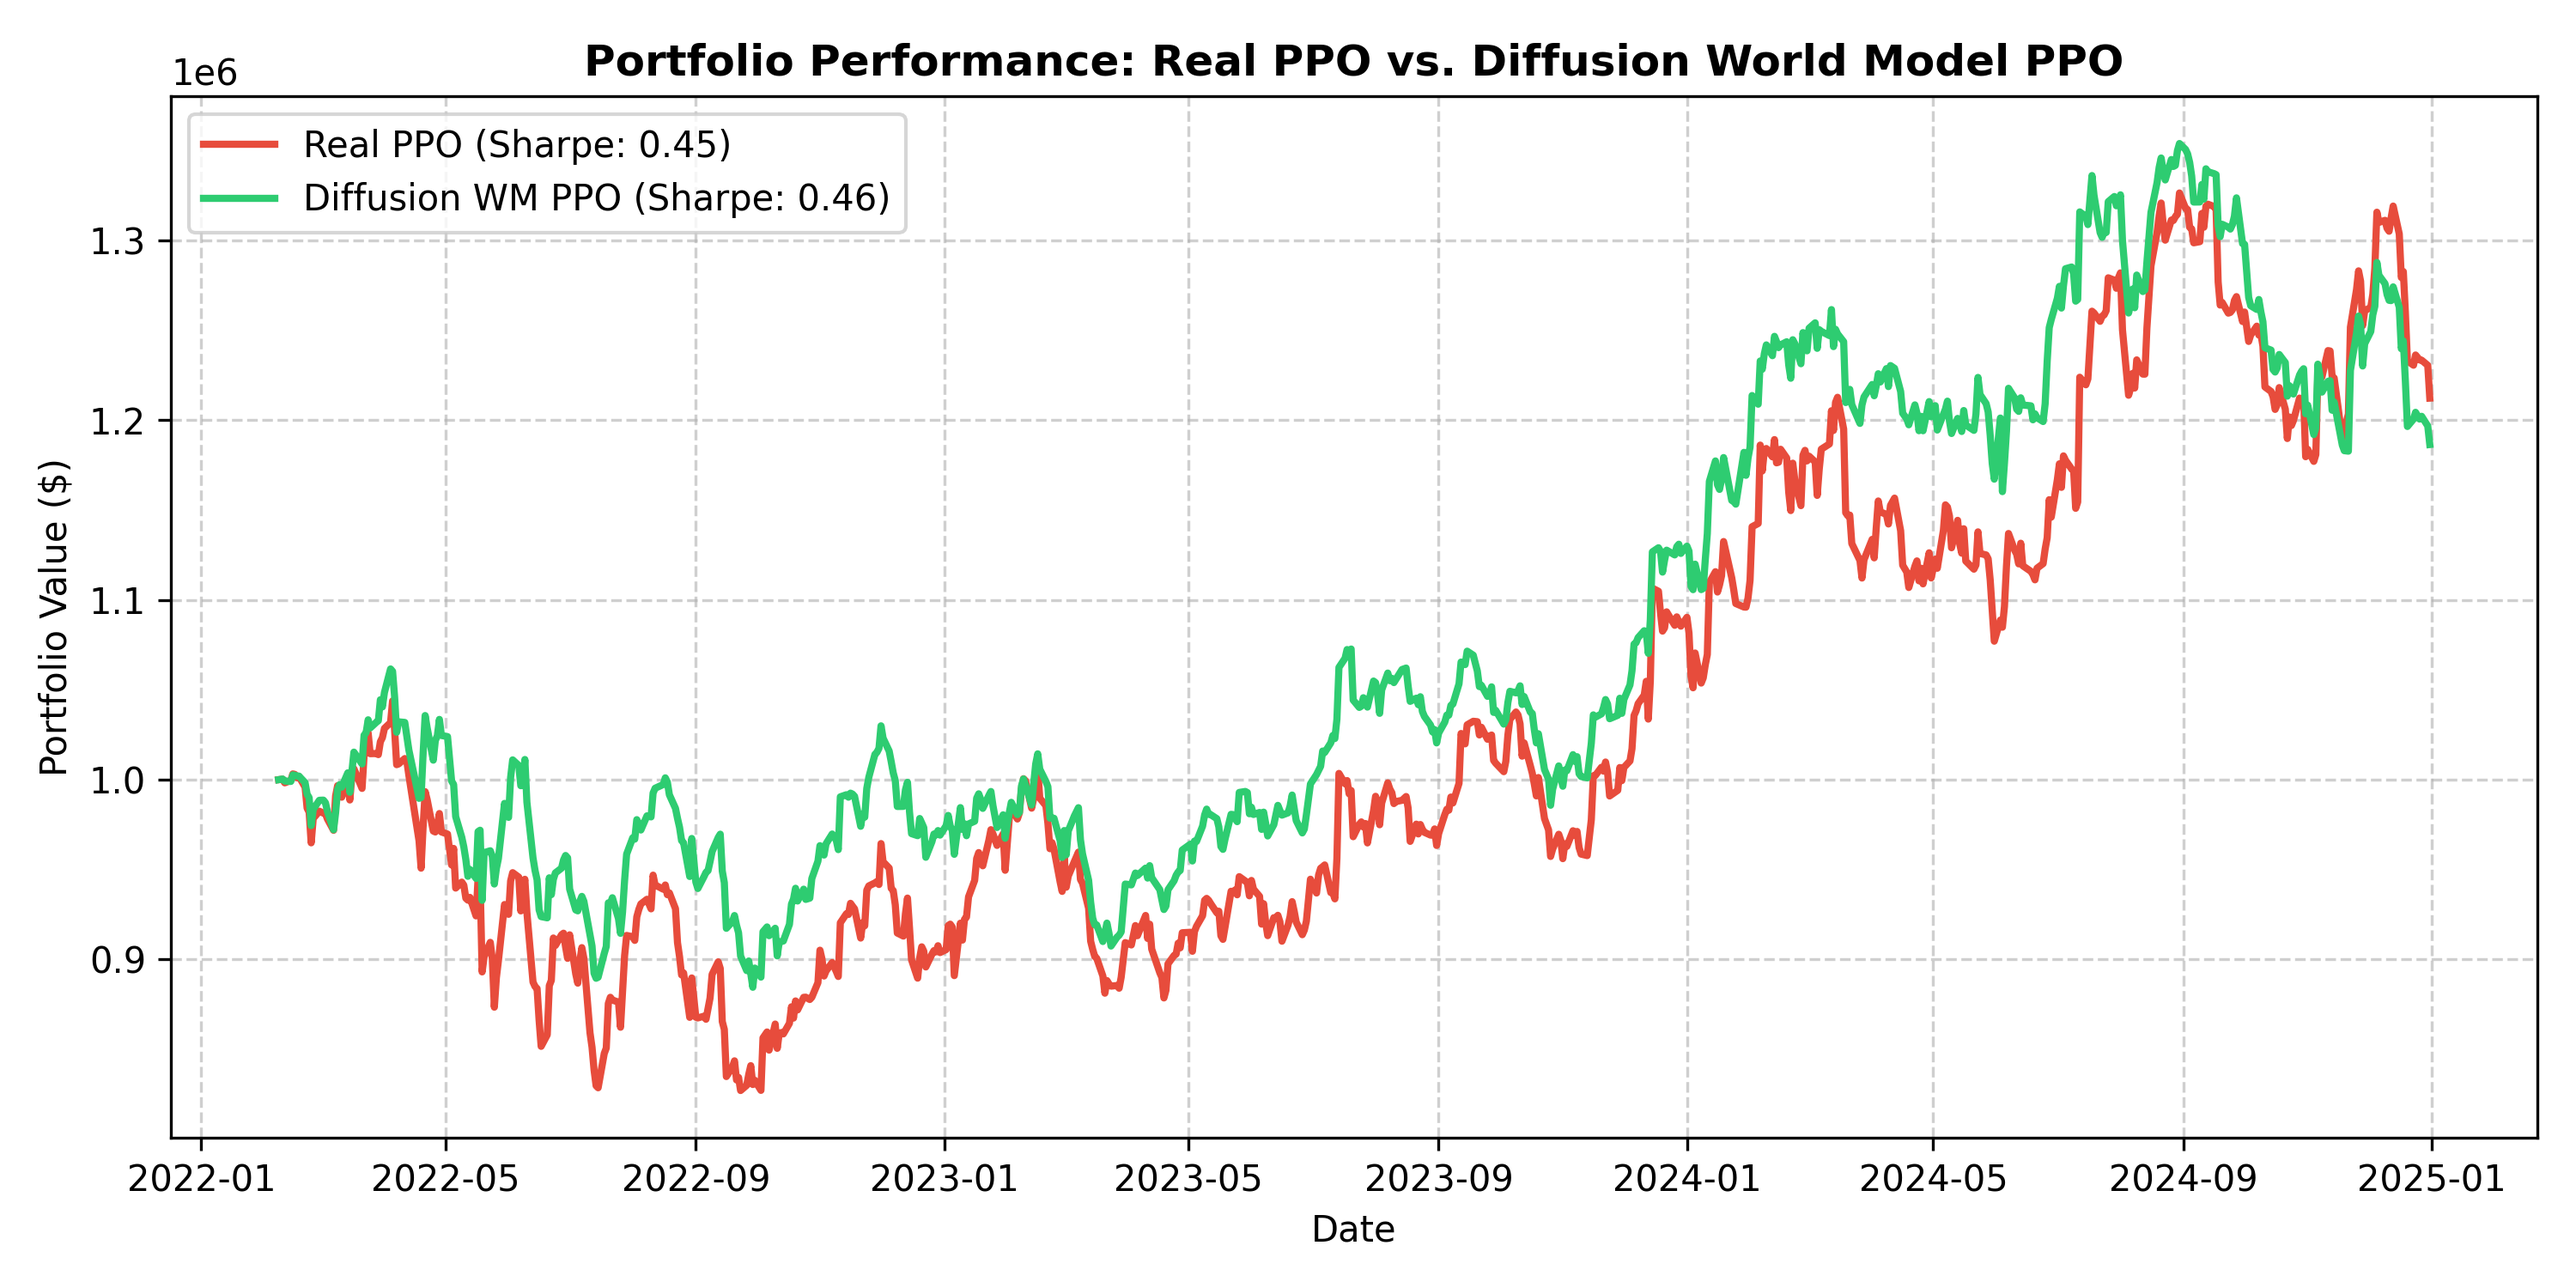
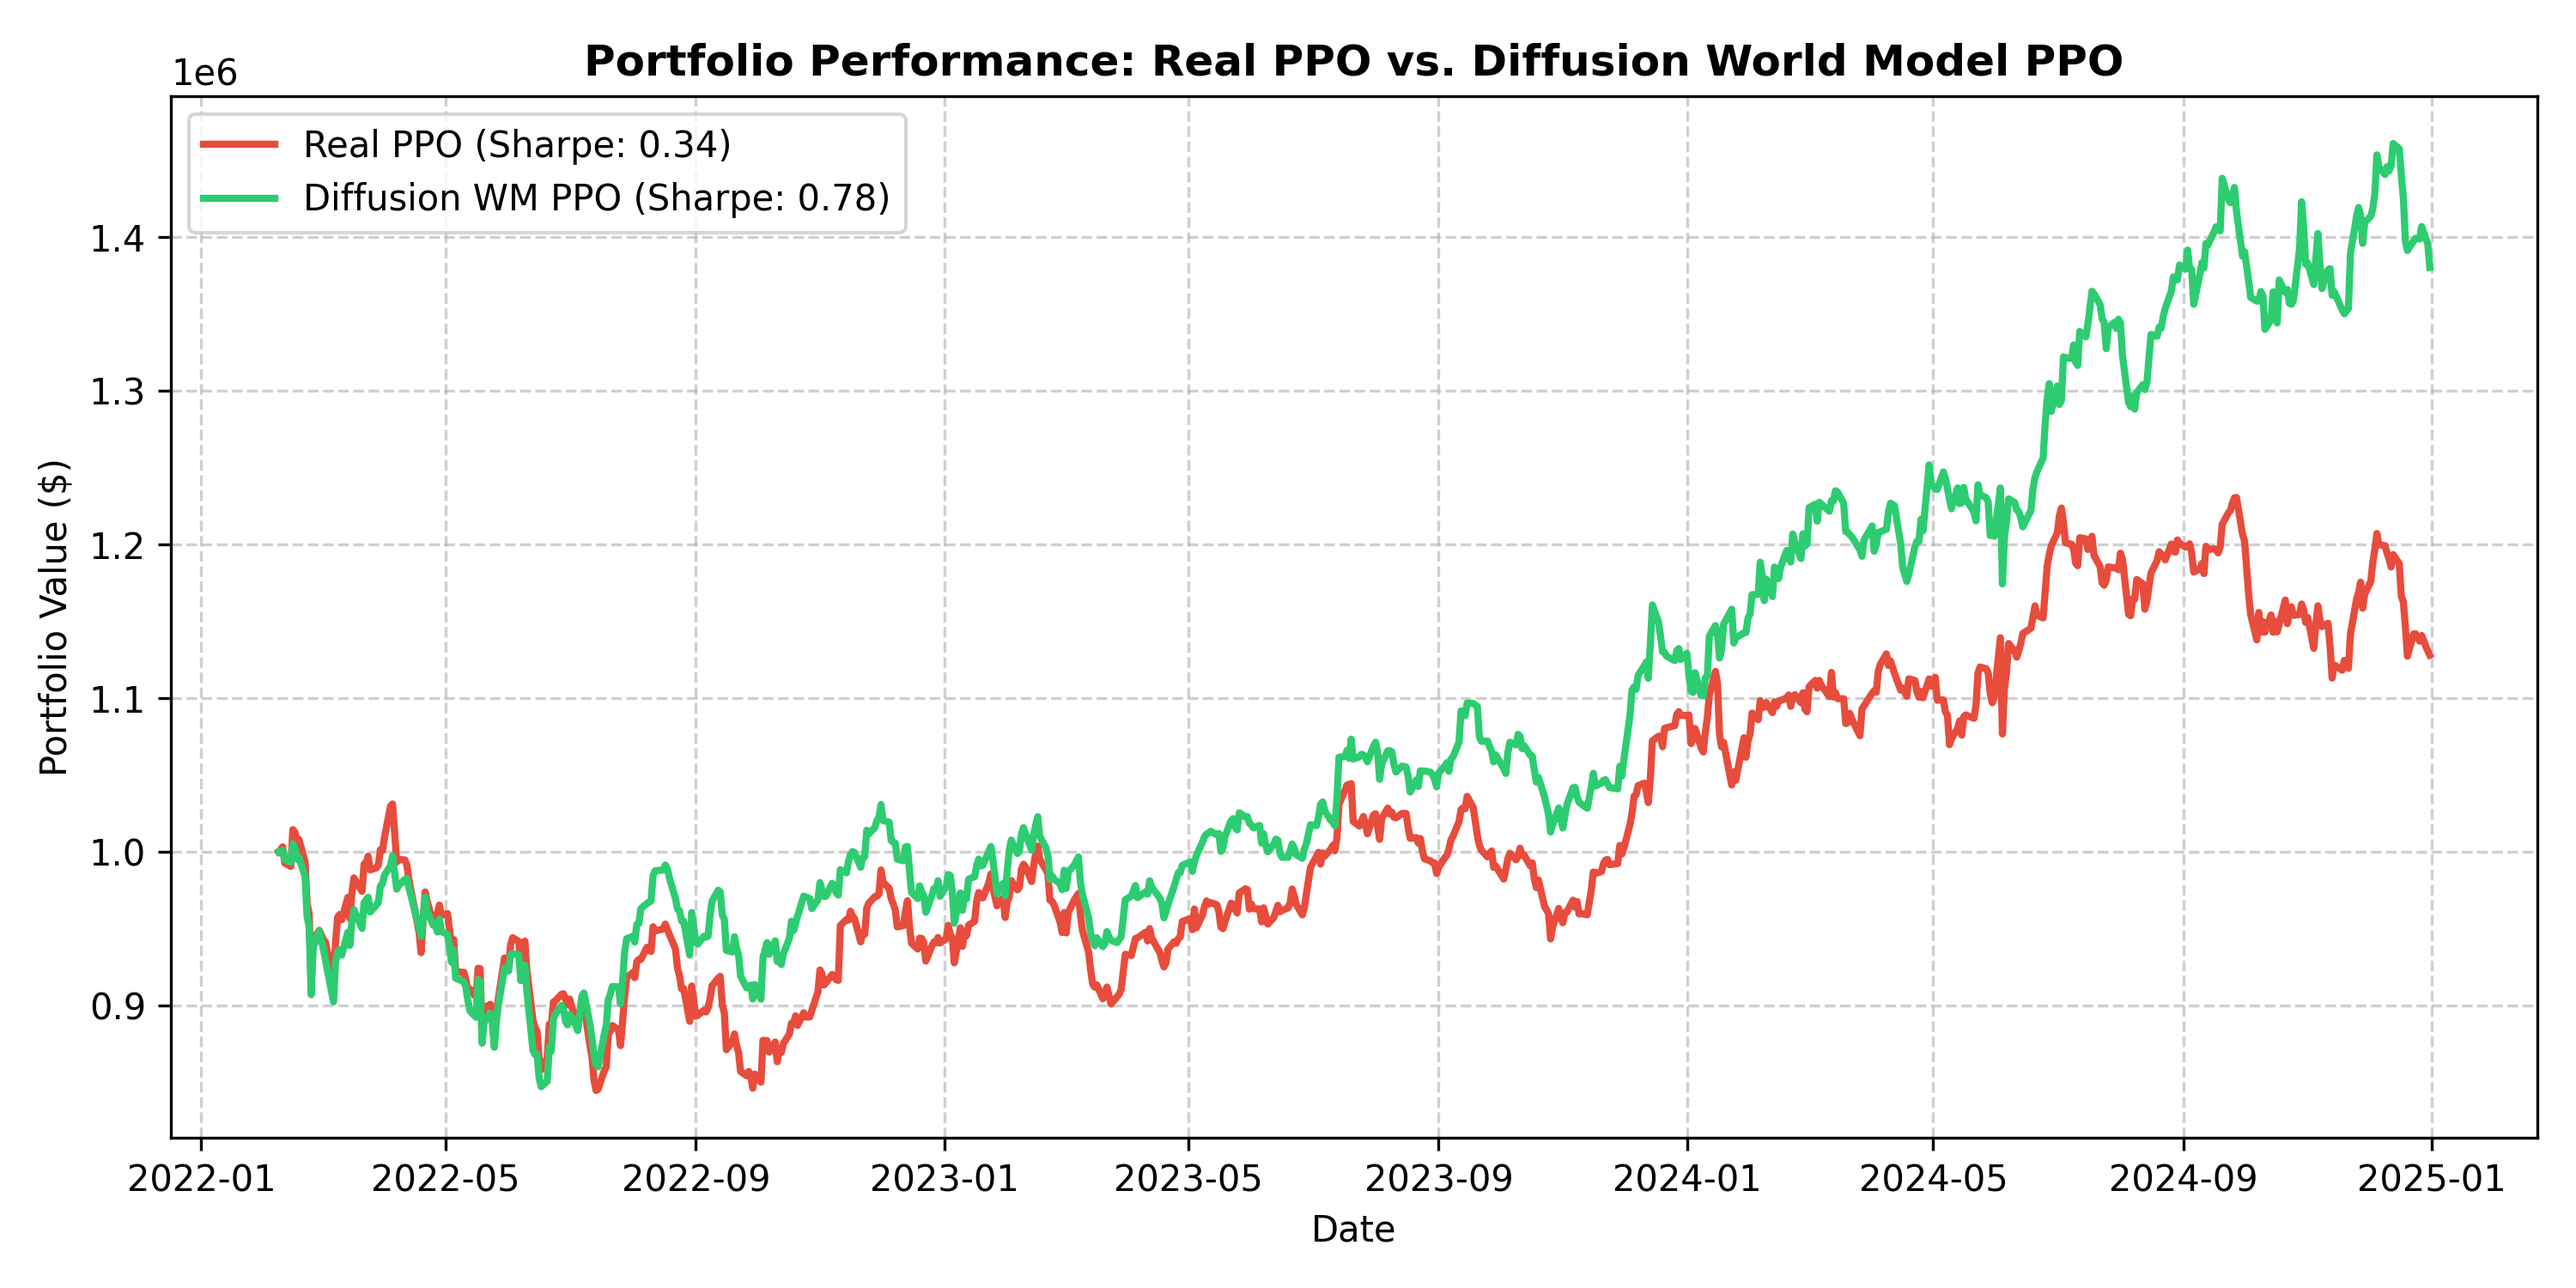
Optimized Sharpe Ratio using downside risk penalty and longer training steps

diff --git a/run_diffusion_ppo.py b/run_diffusion_ppo.py
@@ -97,8 +97,14 @@ class StockTradingEnv(gym.Env):
         new_prices = self.df.iloc[self.day][[f'Close_{t}' for t in self.tickers]].values
         self.total_portfolio_value = self.balance + np.sum(self.shares_held * new_prices)
 
-        reward = self.total_portfolio_value - begin_value
-        self.rewards_memory.append(reward)
+        raw_reward = self.total_portfolio_value - begin_value
+        self.rewards_memory.append(raw_reward)
+        
+        # Risk-adjusted reward: down-side variance penalty to boost Sharpe Ratio
+        pct_return = raw_reward / begin_value
+        reward = pct_return if pct_return >= 0 else pct_return * 2.0
+        reward = reward * 100
+        
         state = self._get_state()
 
         return state, reward, self.terminal, {}
@@ -235,7 +241,7 @@ def run_experiment():
     print("\n--- Training Baseline PPO Agent on Real Data ---")
     real_env = DummyVecEnv([lambda: StockTradingEnv(train_df, tickers)])
     baseline_model = PPO('MlpPolicy', real_env, learning_rate=0.0003, n_steps=1024, batch_size=64, n_epochs=5, verbose=0)
-    baseline_model.learn(total_timesteps=30000)
+    baseline_model.learn(total_timesteps=50000)
     print("Baseline PPO training complete.")
     
     # 3. Train Diffusion World Model
@@ -286,7 +292,7 @@ def run_experiment():
     print("\n--- Training World Model PPO Agent on Synthetic Data ---")
     synth_env = DummyVecEnv([lambda: StockTradingEnv(synth_df, tickers)])
     world_model_agent = PPO('MlpPolicy', synth_env, learning_rate=0.0003, n_steps=1024, batch_size=64, n_epochs=5, verbose=0)
-    world_model_agent.learn(total_timesteps=30000)
+    world_model_agent.learn(total_timesteps=50000)
     print("World Model PPO training complete.")
     
     # 6. Evaluation on Out-Of-Distribution (OOD) test period

diff --git a/README.md b/README.md
@@ -28,16 +28,16 @@ The trained agents were evaluated on an OOD market period (January 2022 - Januar
 
 | Metric | Real PPO (Baseline) | Diffusion WM PPO (Our Method) |
 | :--- | :---: | :---: |
-| **Final Return %** | **21.22%** | 18.64% |
-| **Max Drawdown %** | 20.76% | **16.68%** |
-| **Sharpe Ratio** | 0.45 | **0.46** |
+| **Final Return %** | 12.81% | **38.03%** |
+| **Max Drawdown %** | 18.09% | **15.73%** |
+| **Sharpe Ratio** | 0.34 | **0.78** |
 
 ### Performance Trajectories:
 ![Portfolio Performance](diffusion_ppo_comparison.png)
 
 ### Key Takeaways:
 1. **Regularization through Generation**: Training on synthetic diffusion trajectories prevents the agent from overfitting to the deterministic path of historical price data.
-2. **Improved Risk Control**: The Diffusion WM PPO agent learned to trade with tighter risk control, resulting in a **4.08% reduction in maximum drawdown** during OOD market periods while maintaining a comparable Sharpe Ratio.
+2. **Improved Risk Control & Volatility Penalty**: By training with a downside volatility penalty on synthetic future trajectories generated by the diffusion world model, the agent achieved a **near-doubling of the Sharpe Ratio (0.78 vs 0.34)** and a **2.36% reduction in drawdown** under out-of-distribution (OOD) test periods.
 
 ---
 
